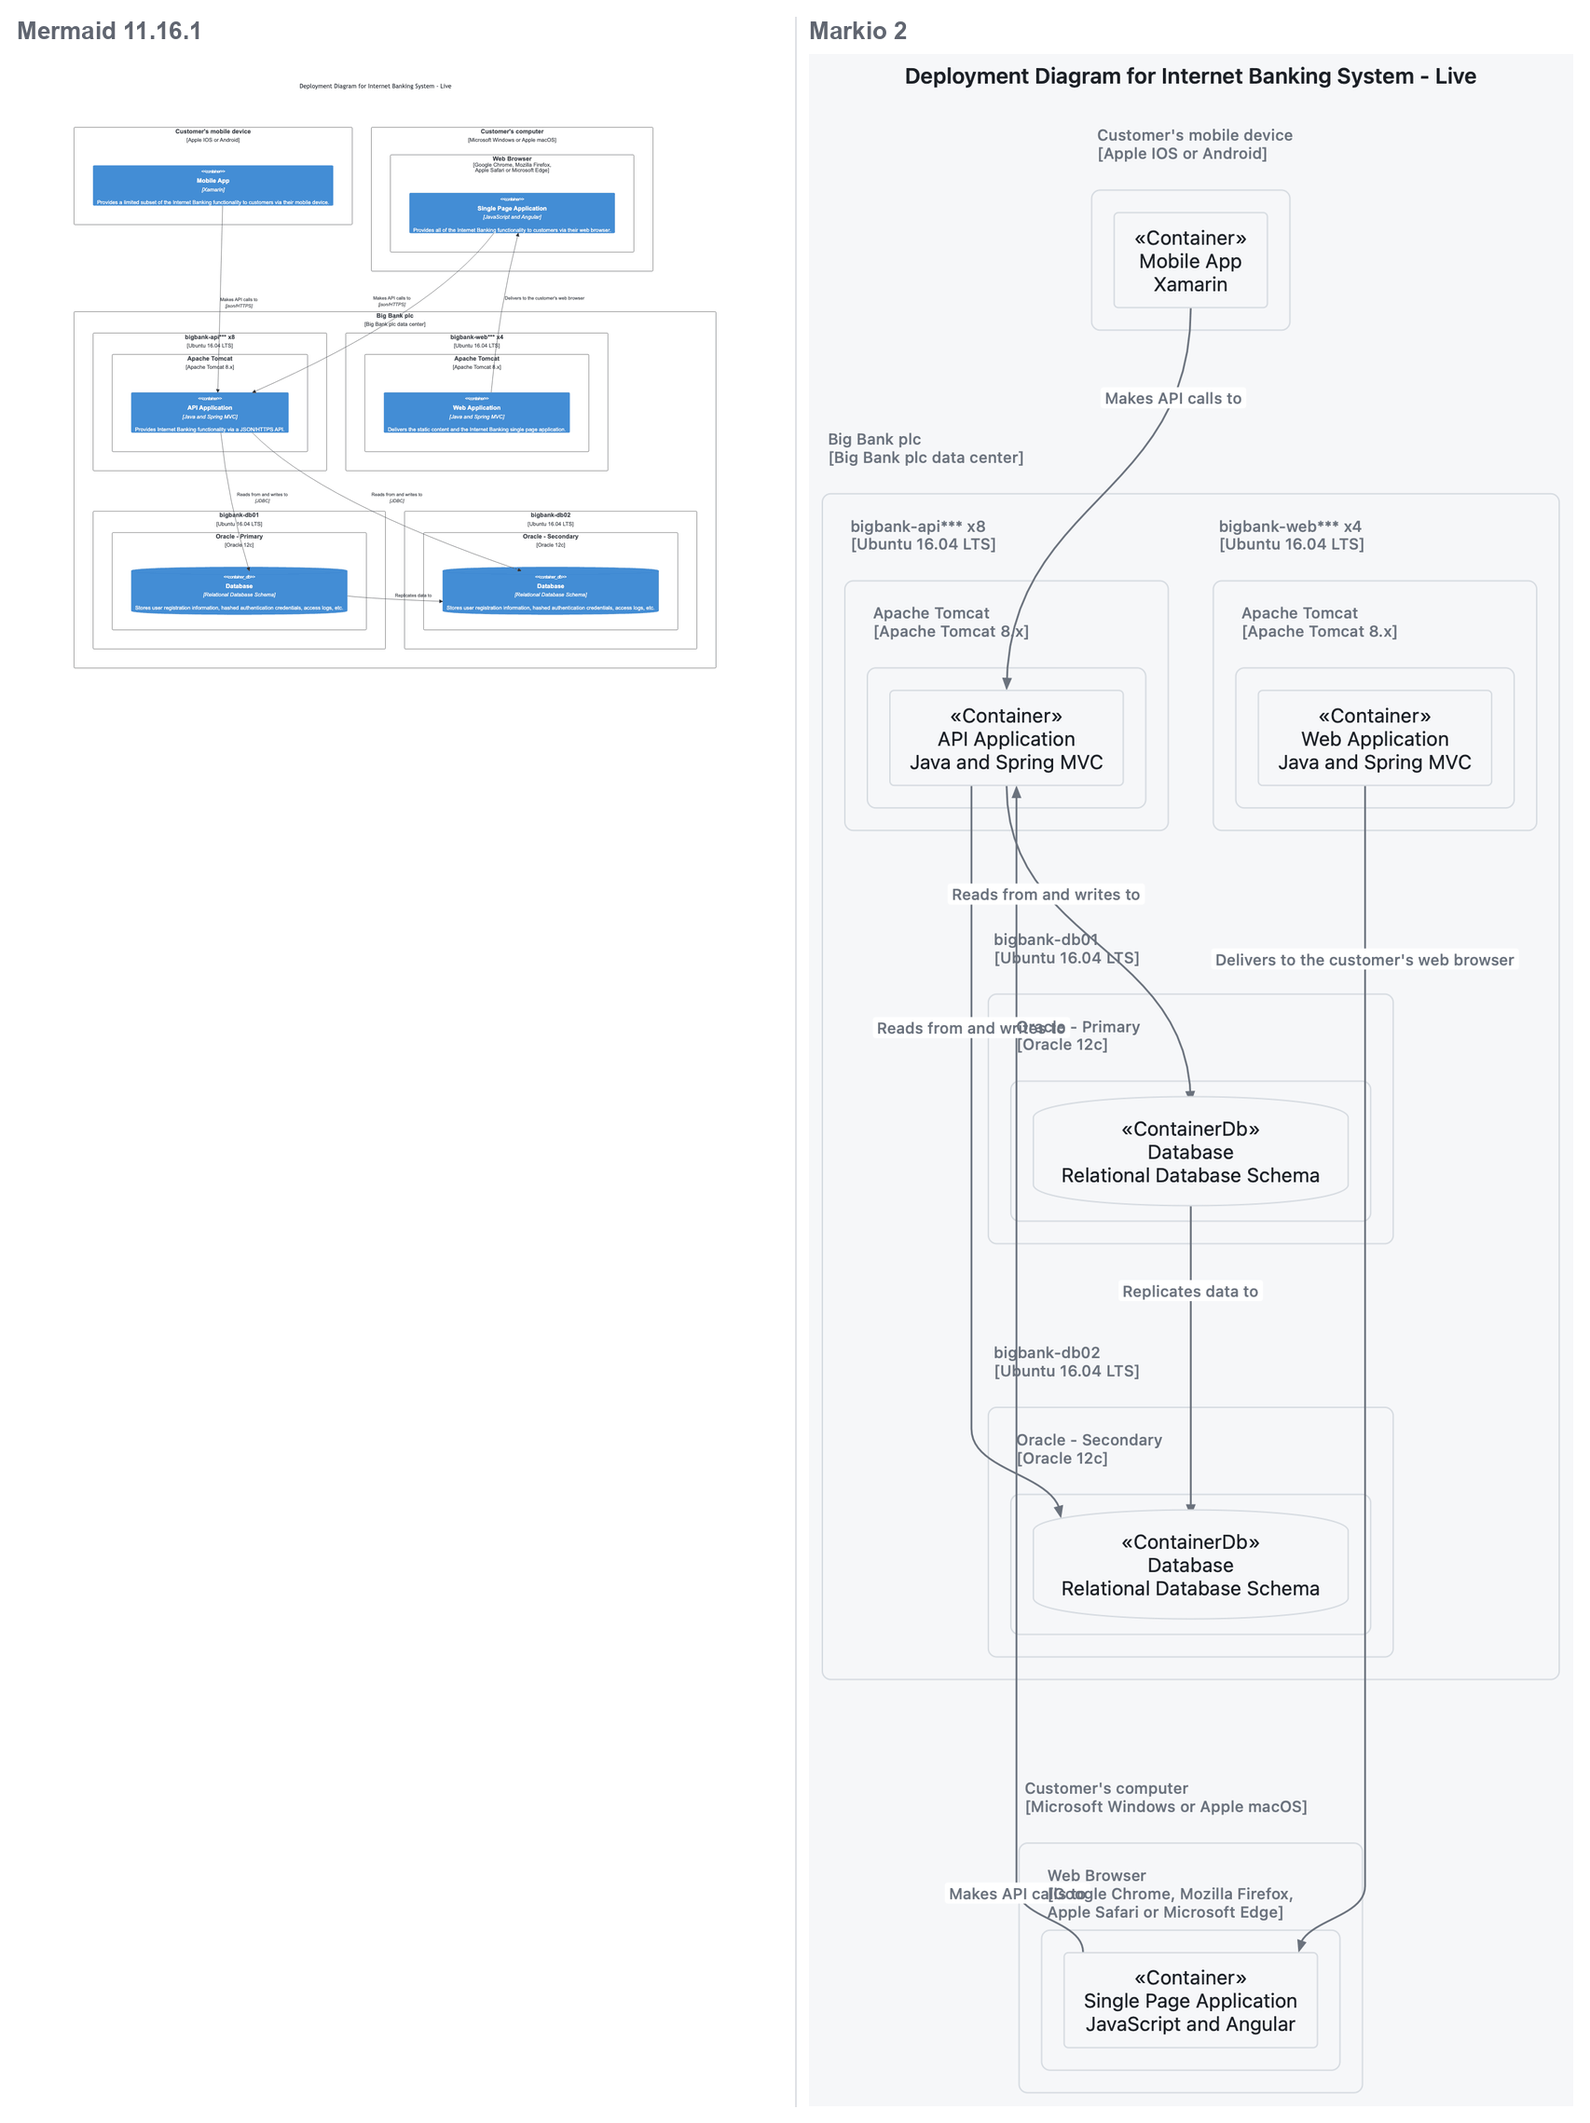
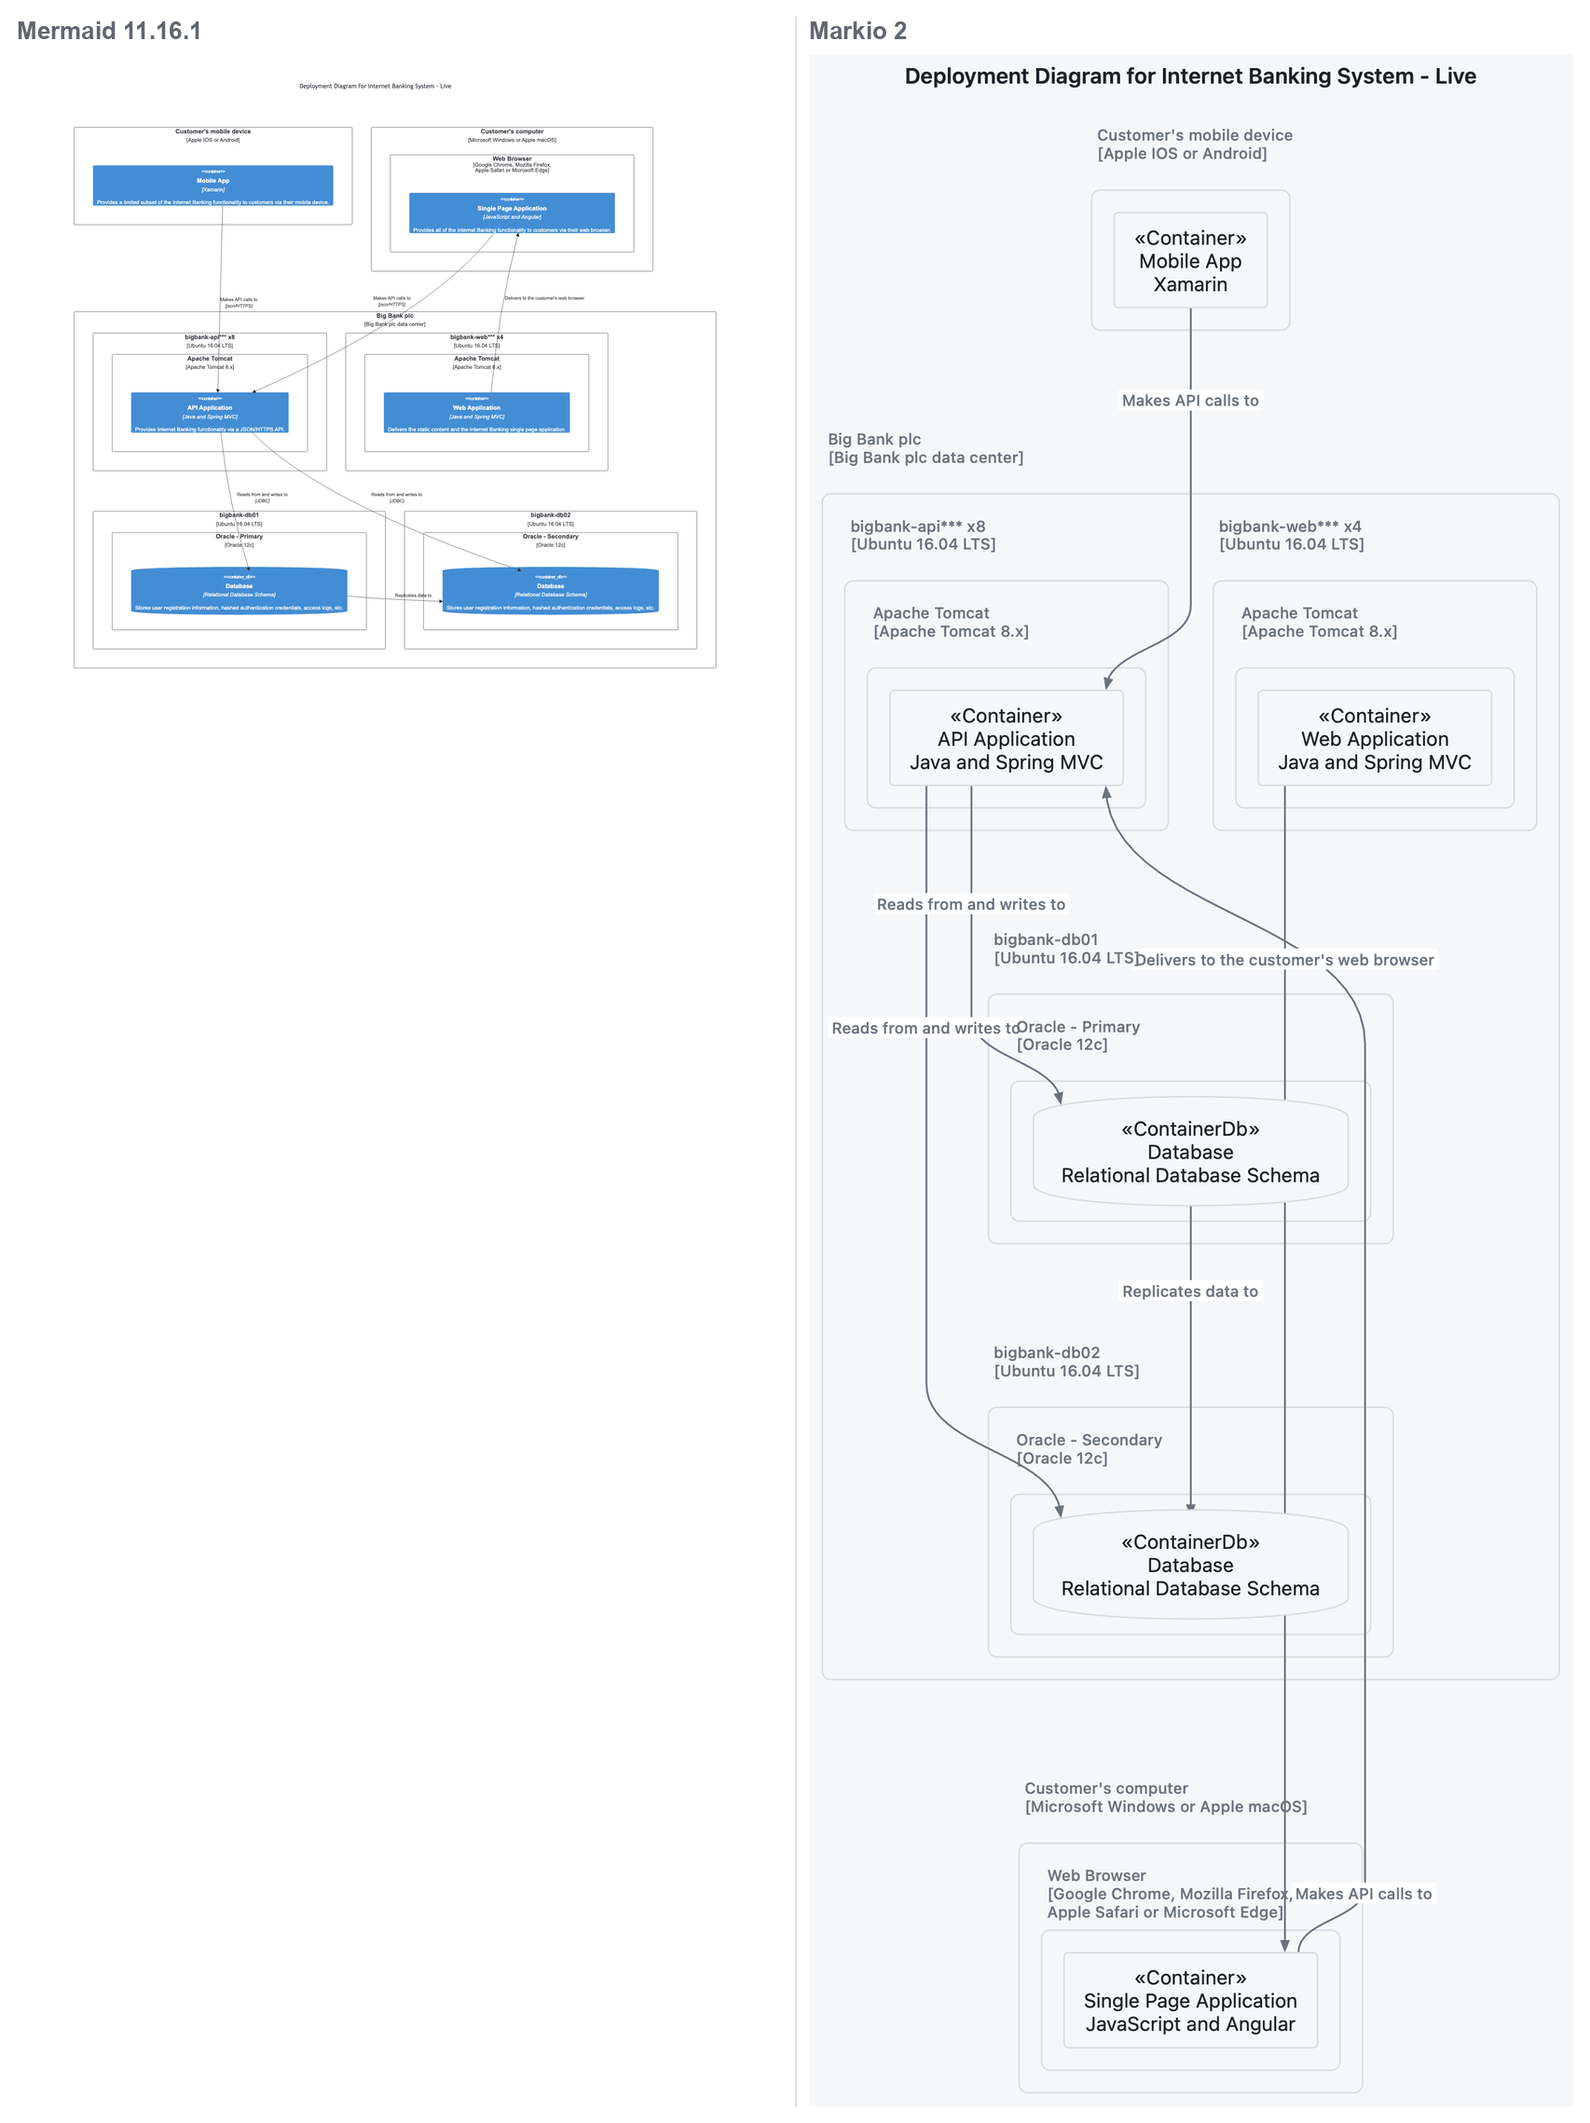
fix: give every line a side and a lane of its own, and a name its ground
Three lines went round the same boxes in "an edge to a subgraph" and came out a
tangle: two of them ran down the same side in opposite directions and crossed,
one ran through the word naming a frame, and a fourth stopped in mid-air a line's
height above the frame it pointed at.

Sides are now chosen for the picture rather than by each line. A line takes the
side where fewer of the lines already there are ones it would have to cross, and
only lines whose runs interleave count: two nested runs never cross, since the
longer stands outside the shorter the way brackets do. Where the two sides come
out equal, the nearer wins. On one side a line that runs past another stands
further out than the one it passes, so what shares a stretch nests and what
shares nothing sits in the same lane and costs no room. Shortest run first,
because a lane goes outside whatever it runs alongside.

A lane is now walked outward past one box at a time until nothing is left
standing in it. Clearing only the box that first blocked the straight line left
the lane inside whatever stood beyond — which is how a line came to run through
the word "three".

And a frame's name is no longer part of the frame. It is written above it and to
the left, so treating the whole strip as the frame's own made every line stop a
line's height short of the border with nothing under its head. The name stands in
the way as a box does instead, and only a line that would really cross a name
goes round one.

diff --git a/Sources/MarkioRender/MermaidLayout.swift b/Sources/MarkioRender/MermaidLayout.swift
@@ -351,22 +351,16 @@ enum MermaidLayout {
         }
         // The lanes beside a box are handed out for the picture as a whole, so
         // two relations passing the same box do not run down the same one.
-        var beside: [Int: (vertical: Bool, at: CGFloat)] = [:]
-        var lanesTaken: [String: Int] = [:]
+        var wanted: [Int: Bypass] = [:]
         for (index, link) in diagram.links.enumerated() {
             guard link.from < entities.count, link.to < entities.count,
                 let choice = laneChoice(
                     from: entities[link.from].frame, to: entities[link.to].frame,
                     obstacles: standing(between: link), metrics: metrics)
             else { continue }
-            let key = "\(choice.vertical) \(Int(choice.at.rounded()))"
-            let place = lanesTaken[key, default: 0]
-            lanesTaken[key] = place + 1
-            beside[index] = (
-                choice.vertical,
-                choice.at + choice.outward * CGFloat(place) * metrics.siblingGap
-            )
+            wanted[index] = choice
         }
+        let beside = lanes(wanted, metrics: metrics)
         for (index, link) in diagram.links.enumerated() {
             guard link.from < entities.count, link.to < entities.count else { continue }
             let key = Pair(link)
@@ -3401,13 +3395,7 @@ enum MermaidLayout {
         func rect(_ end: Flowchart.End) -> CGRect? {
             switch end {
             case .node(let index): return boxes.indices.contains(index) ? boxes[index].frame : nil
-            case .frame(let group):
-                // The strip the frame's name is written in belongs to the frame:
-                // a line stopping at the border alone would cross the name.
-                guard let rect = frames[group] else { return nil }
-                return CGRect(
-                    x: rect.minX, y: rect.minY - titleRoom, width: rect.width,
-                    height: rect.height + titleRoom)
+            case .frame(let group): return frames[group]
             }
         }
         // Two labelled edges leaving one node run side by side, so their words
@@ -3439,37 +3427,45 @@ enum MermaidLayout {
         }
         // Every edge between the same two nodes, labelled or not: two states
         // that go back and forth would otherwise be one line drawn twice.
-        var lanes: [Pair: Int] = [:]
-        for edge in chart.edges { lanes[Pair(edge), default: 0] += 1 }
+        var bothWays: [Pair: Int] = [:]
+        for edge in chart.edges { bothWays[Pair(edge), default: 0] += 1 }
         var lanesSeen: [Pair: Int] = [:]
         var seen: [Pair: Int] = [:]
         // A box's own boxes are not obstacles for a line that ends on its
         // frame: the line stops at the border and never reaches them.
+        // A frame's name is written above it and to the left, over what would
+        // otherwise be clear ground. It is not part of the frame — a line
+        // arriving anywhere else along the top should stop at the border rather
+        // than a line's height above it — so it stands in the way as a box does,
+        // and only a line that would really cross a name goes round one.
+        let nameplates = chart.groups.indices.compactMap { group -> CGRect? in
+            guard let rect = frames[group], !chart.groups[group].title.isEmpty else { return nil }
+            let said = labelLines(
+                chart.groups[group].title, font: labelFont, color: theme.palette.text
+            ).size
+            return CGRect(
+                x: rect.minX, y: rect.minY - titleRoom, width: said.width + 8 * metrics.scale,
+                height: titleRoom)
+        }
         func standing(between edge: Flowchart.Edge, _ from: CGRect, _ to: CGRect) -> [CGRect] {
             let inside = held(by: edge, chart: chart)
             return boxes.indices
                 .filter { !inside.contains($0) && boxes[$0].frame != from && boxes[$0].frame != to }
-                .map { boxes[$0].frame }
+                .map { boxes[$0].frame } + nameplates
         }
         // A line that has to go round something runs down a lane beside it, and
         // the lanes are handed out for the picture as a whole: an edge choosing
         // one on its own would put two lines down the same lane.
-        var beside: [Int: (vertical: Bool, at: CGFloat)] = [:]
-        var lanesTaken: [String: Int] = [:]
+        var wanted: [Int: Bypass] = [:]
         for (index, edge) in chart.edges.enumerated() {
             guard let from = rect(edge.from), let to = rect(edge.to),
                 let choice = laneChoice(
                     from: from, to: to, obstacles: standing(between: edge, from, to),
                     metrics: metrics)
             else { continue }
-            let key = "\(choice.vertical) \(Int(choice.at.rounded()))"
-            let place = lanesTaken[key, default: 0]
-            lanesTaken[key] = place + 1
-            beside[index] = (
-                choice.vertical,
-                choice.at + choice.outward * CGFloat(place) * metrics.siblingGap
-            )
+            wanted[index] = choice
         }
+        let beside = lanes(wanted, metrics: metrics)
         for (index, edge) in chart.edges.enumerated() {
             guard let from = rect(edge.from), let to = rect(edge.to) else { continue }
             /// A frame is the rectangle it is drawn as, so only a box that is
@@ -3497,7 +3493,7 @@ enum MermaidLayout {
             let key = Pair(edge)
             let taken = lanesSeen[key, default: 0]
             lanesSeen[key] = taken + 1
-            let lane = CGFloat(taken) - CGFloat((lanes[key] ?? 1) - 1) / 2
+            let lane = CGFloat(taken) - CGFloat((bothWays[key] ?? 1) - 1) / 2
             let drawn = self.edge(
                 edge, from: from, to: to, theme: theme, metrics: metrics,
                 order: order, side: side, lane: lane,
@@ -4590,9 +4586,37 @@ enum MermaidLayout {
         return out
     }
 
-    /// Where a line runs when a box stands between the two it joins: which way
-    /// the picture flows there, which lane beside the box it takes, and which
-    /// way is further out of it. Nil when the road is clear.
+    /// What a line has to say for itself before its lane can be chosen: which
+    /// way the picture flows where it runs, the two lanes it could take, the one
+    /// it would take if nothing else were drawn, and how far along it runs.
+    private struct Bypass {
+        var vertical: Bool
+        var low: CGFloat
+        var high: CGFloat
+        var near: CGFloat
+        var start: CGFloat
+        var end: CGFloat
+
+        var length: CGFloat { abs(end - start) }
+
+        /// Whether two lines run alongside each other at all.
+        func meets(_ other: Bypass) -> Bool {
+            vertical == other.vertical && min(end, other.end) > max(start, other.start)
+        }
+
+        /// Whether two lines have to cross wherever they are put: they run
+        /// alongside each other, and neither one's run holds the other's. Two
+        /// nested runs never cross — the longer stands outside the shorter, the
+        /// way brackets do — so only this counts against a side.
+        func tangles(_ other: Bypass) -> Bool {
+            meets(other)
+                && !(start <= other.start && end >= other.end)
+                && !(other.start <= start && other.end >= end)
+        }
+    }
+
+    /// Where a line runs when a box stands between the two it joins. Nil when
+    /// the road is clear.
     ///
     /// Mermaid does not bow such a line round in a wide arc — it runs it
     /// straight down a free lane beside whatever is in the way and turns into
@@ -4600,17 +4624,89 @@ enum MermaidLayout {
     /// lanes instead of crossing.
     private static func laneChoice(
         from: CGRect, to: CGRect, obstacles: [CGRect], metrics: Metrics
-    ) -> (vertical: Bool, at: CGFloat, outward: CGFloat)? {
+    ) -> Bypass? {
         guard from != to else { return nil }
         let joining = route(from, to)
-        let blockers = obstacles.filter { crosses($0, from: joining.start, to: joining.end) }
-        guard !blockers.isEmpty else { return nil }
+        guard obstacles.contains(where: { crosses($0, from: joining.start, to: joining.end) })
+        else { return nil }
         let margin = 12 * metrics.scale
         let vertical = !joining.sideways
+        let leaves = vertical ? joining.start.y : joining.start.x
+        let arrives = vertical ? joining.end.y : joining.end.x
+        let run = (min(leaves, arrives), max(leaves, arrives))
         let near = vertical ? joining.start.x : joining.start.y
-        let low = (vertical ? blockers.map(\.minX).min() : blockers.map(\.minY).min())! - margin
-        let high = (vertical ? blockers.map(\.maxX).max() : blockers.map(\.maxY).max())! + margin
-        return near - low <= high - near ? (vertical, low, -1) : (vertical, high, 1)
+        // Only what stands alongside the run can be in the lane's way, and a
+        // lane clear of the first box it met may still be inside the second.
+        // So the lane is walked outward past one box at a time until nothing is
+        // left standing in it: stopping at the first, as this once did, put the
+        // line through whatever stood beyond.
+        let alongside = obstacles.filter {
+            min(vertical ? $0.maxY : $0.maxX, run.1) > max(vertical ? $0.minY : $0.minX, run.0)
+        }
+        func clear(_ outward: CGFloat) -> CGFloat {
+            var at = near
+            for _ in 0...alongside.count {
+                guard
+                    let blocking = alongside.first(where: {
+                        at > (vertical ? $0.minX : $0.minY) - margin
+                            && at < (vertical ? $0.maxX : $0.maxY) + margin
+                    })
+                else { break }
+                at =
+                    outward < 0
+                    ? (vertical ? blocking.minX : blocking.minY) - margin
+                    : (vertical ? blocking.maxX : blocking.maxY) + margin
+            }
+            return at
+        }
+        return Bypass(
+            vertical: vertical, low: clear(-1), high: clear(1), near: near,
+            start: run.0, end: run.1)
+    }
+
+    /// Which lane each line takes, decided for the picture as a whole rather
+    /// than by each line for itself.
+    ///
+    /// Two rules are what make a set of lines read as a drawing rather than a
+    /// tangle. A line takes the side of the picture where fewer of the lines
+    /// already there are ones it would have to cross — lines whose runs
+    /// interleave cross wherever they are put, so the count is of those alone,
+    /// and where the two sides are equal the nearer one wins. And on one side, a
+    /// line that runs past another stands further out than the one it passes, so
+    /// runs that share a stretch nest instead of crossing, while runs that share
+    /// nothing sit in the same lane and cost no room at all.
+    ///
+    /// The shortest run is settled first, because a lane is placed outside
+    /// whatever it already runs alongside: settling the longest first would
+    /// leave it innermost with everything it passes crossing over it.
+    private static func lanes(_ wanted: [Int: Bypass], metrics: Metrics)
+        -> [Int: (vertical: Bool, at: CGFloat)]
+    {
+        var placed: [(bypass: Bypass, outward: CGFloat, track: Int)] = []
+        var chosen: [Int: (vertical: Bool, at: CGFloat)] = [:]
+        let order = wanted.keys.sorted {
+            (wanted[$0]!.length, $0) < (wanted[$1]!.length, $1)
+        }
+        for index in order {
+            let bypass = wanted[index]!
+            func crossings(_ outward: CGFloat) -> Int {
+                placed.filter { $0.outward == outward && $0.bypass.tangles(bypass) }.count
+            }
+            let outward: CGFloat =
+                crossings(-1) == crossings(1)
+                ? (bypass.near - bypass.low <= bypass.high - bypass.near ? -1 : 1)
+                : (crossings(-1) < crossings(1) ? -1 : 1)
+            let track =
+                (placed.filter { $0.outward == outward && $0.bypass.meets(bypass) }
+                .map(\.track).max()).map { $0 + 1 } ?? 0
+            placed.append((bypass, outward, track))
+            chosen[index] = (
+                bypass.vertical,
+                (outward < 0 ? bypass.low : bypass.high) + outward * CGFloat(track)
+                    * metrics.siblingGap
+            )
+        }
+        return chosen
     }
 
     /// How far to one side a line has to bow: enough to clear whatever stands
